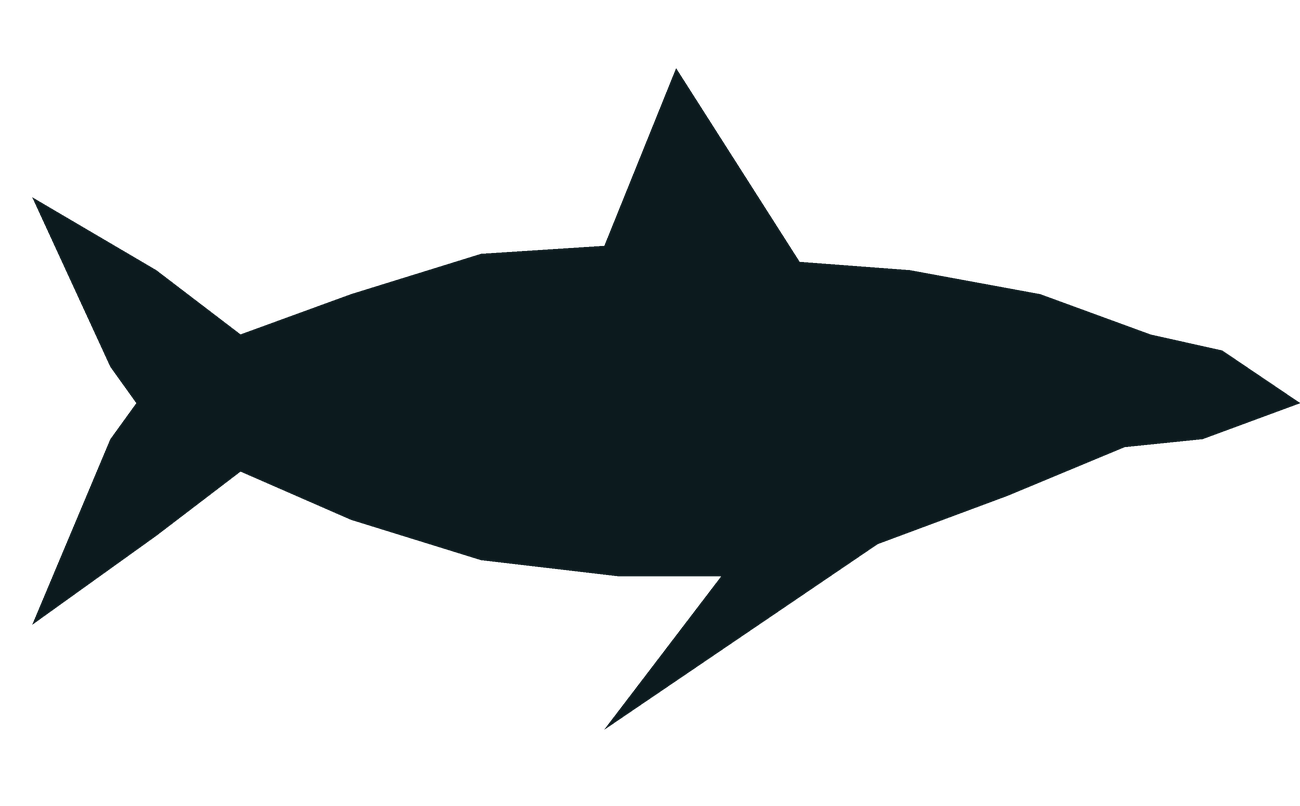
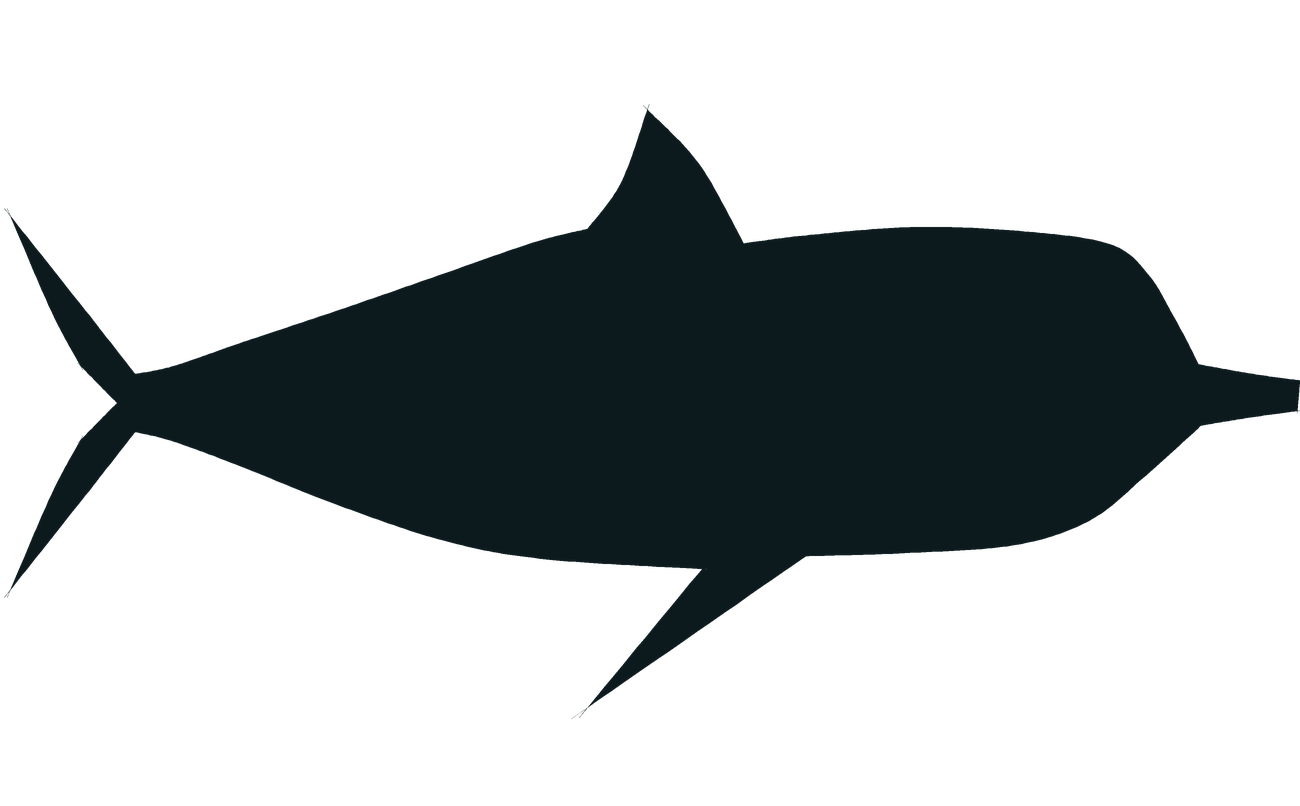
Silhuetas: golfinho e tubarao com cabeca de bicho, nao de lanca
Os dois saiam com uma cunha afiada no lugar da cabeca. Duas causas: o
contorno era um poligono de poucos pontos, entao todo trecho virava reta,
e a cabeca ocupava um terco do corpo — com o corpo ja afunilando no meio,
qualquer cabeca vira cone.

Agora o contorno passa por uma spline Catmull-Rom e um ponto repetido tres
vezes vira canto vivo: ponta de nadadeira continua ponta, corpo e cabeca
ficam redondos. O corpo fica cheio ate ~85% e a cabeca abre so nos ultimos
15%.

E cada um ganhou o detalhe que o entrega: no golfinho o vinco entre o melao
redondo e o bico curto e rombudo, com a dorsal em foice de borda de tras
concava; no tubarao o focinho conico curto com a boca recuada por baixo e a
caudal assimetrica, lobo de cima bem maior. Tartaruga e baleia intocadas.

Conferido na cena: os dois reconheciveis na camera, dois quadros a 120 ms
mostram o mesmo bicho (o warp nao despedaca o novo contorno), 60 fps a
1366x768 e nenhum erro de console.

Claude-Session: https://claude.ai/code/session_01QXHGCGQ6qhobPMYduFY7mu

diff --git a/README.md b/README.md
@@ -724,6 +724,20 @@ disso: rolagem de ±4°, respiração de ±2% e nadadeiras com seno próprio.
 > E a pose tem que ser a que IDENTIFICA a espécie: a tartaruga é vista de cima,
 > porque de perfil ela não se reconhece — casco arredondado, cabeça saindo do
 > pescoço e quatro remos largos, não quatro espinhos.
+>
+> **E o contorno é CURVO, não um polígono de poucos pontos.** As silhuetas de
+> golfinho e tubarão saíam com uma cunha afiada no lugar da cabeça: com poucos
+> vértices todo trecho vira reta, e a cabeça era onde isso aparecia. Agora o
+> contorno passa por uma spline (Catmull-Rom) e um ponto repetido três vezes
+> vira canto vivo — a ponta de nadadeira continua ponta enquanto o corpo e a
+> cabeça ficam redondos.
+>
+> Duas regras de desenho valeram mais que a curva:
+> **a cabeça ocupa os últimos ~15% do bicho**, não um terço (enquanto o corpo
+> começava a afunilar no meio, qualquer cabeça virava cone), e **cada espécie
+> tem UM detalhe que a entrega**: no golfinho o vinco entre o melão redondo e
+> o bico curto e rombudo; no tubarão o focinho cônico curto com a boca recuada
+> por baixo e a caudal assimétrica, com o lóbulo de cima bem maior.
 
 Três coisas custaram caro e valem estar escritas:
 
